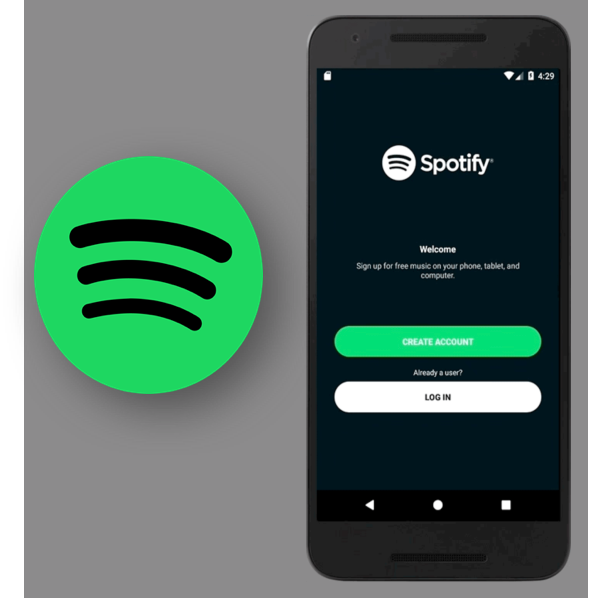
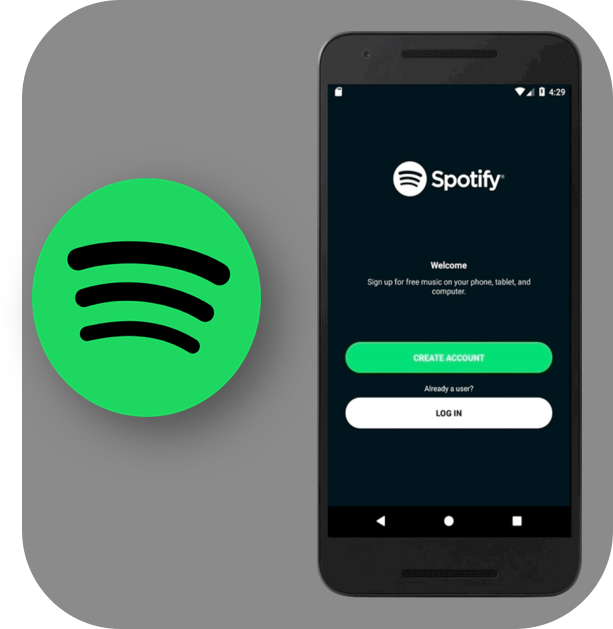
image resize

diff --git a/index.html b/index.html
@@ -177,7 +177,7 @@
                                 <i class="fa fa-search-plus fa-3x"></i>
                             </div>
                         </div>
-                        <img src="img/portfolio/spotify/spotify_demo.png" style="border-radius: 8px;" class="img-responsive" alt="Cabin">
+                        <img src="img/portfolio/spotify/spotify_demo.png" style="border-radius: 8px; width: 240px" class="img-responsive" alt="Cabin">
                     </a>
                 </div>
                 <div class="col-md-6 col-lg-3 portfolio-item">
@@ -187,7 +187,7 @@
                                 <i class="fa fa-search-plus fa-3x"></i>
                             </div>
                         </div>
-                        <img src="img/portfolio/sodagram/sodagram_cover.png" style="border-radius: 8px;" class="img-responsive" alt="Cabin">
+                        <img src="img/portfolio/sodagram/sodagram_cover.png" style="border-radius: 8px; width: 250px" class="img-responsive" alt="Cabin">
                     </a>
                 </div>
                 <div class="col-md-6 col-lg-3 portfolio-item">
